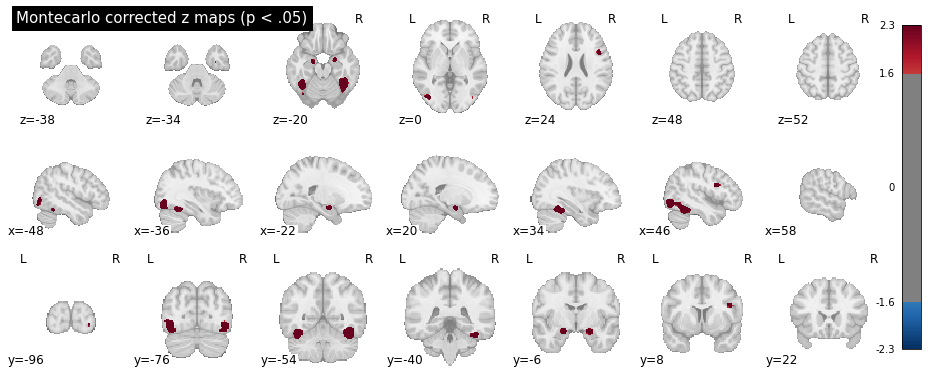
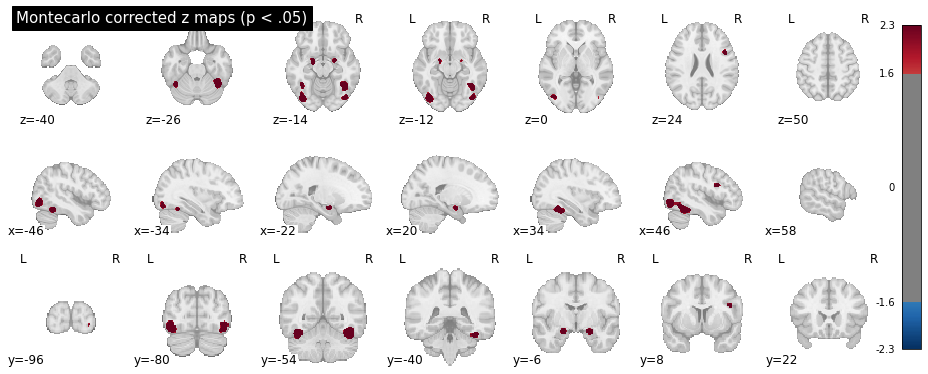
improved nimare code

diff --git a/docs/research/fmri/fmri-nimare.md b/docs/research/fmri/fmri-nimare.md
@@ -23,6 +23,7 @@ Begin by **importing all necessary libraries** required throughout the script. T
 # --- Step 1: Import All Necessary Packages ---
 
 import os
+import shutil
 import numpy as np
 from scipy.stats import norm
 from nimare.dataset import Dataset
@@ -35,7 +36,6 @@ from nilearn.plotting import plot_stat_map
 from nilearn import datasets  # Neuroimaging datasets
 from nilearn.reporting import get_clusters_table
 import nibabel as nib
-
 ```
 
 ---
@@ -179,7 +179,6 @@ def search_abstracts(dataset, keywords):
 
     return keyword_ids
 
-
 # Define keywords to search for in the abstracts
 keywords = ["face recognition"]
 
@@ -197,7 +196,7 @@ pprint(dset_filtered_by_abstract.metadata)  # Verify metadata of the filtered da
 
 ---
 
-## 5. Running Neuroimaging Meta-Analyses
+## 5. Running Meta-Analysis
 
 With the filtered studies, we can now perform meta-analyses using algorithms available in NiMARE.
 
@@ -215,10 +214,14 @@ With the filtered studies, we can now perform meta-analyses using algorithms ava
 The following code exmple shows how to run an ALE meta-analysis with Monte Carlo correction
 
 ```python
-# --- Step 5: Running Neuroimaging Meta-Analyses ---
+# --- Step 5: Running Meta-Analysis ---
 
 # Create dir to store cache (useful for low memory)
 cache_dir = os.path.join(out_dir, "cache")
+
+if os.path.exists(cache_dir):
+    shutil.rmtree(cache_dir) # Delete the old cache folder if it exists
+
 os.makedirs(cache_dir, exist_ok=True)
 
 # Set up the ALE meta-analysis algorithm for activation likelihood estimation
@@ -294,12 +297,23 @@ Which should produce the following plots for the uncorrected z scores and Montec
 
 ![Z scores map corrected](../../assets/nimare-corr.png)
 
+!!! warning
+    The Monte Carlo algorithm may produce slightly different results, nd will be more precise with more iterations (10.000 iterations are reccommended for publication-level analyses).
+
 And for the region names:
 
 ```python
-# # --- Step 7: Extracting Peak Activation Region Names ---
+# --- Step 7: Extracting Peak Activation Region Names ---
 # Load the Harvard-Oxford atlas
-atlas = datasets.fetch_atlas_harvard_oxford("cort-maxprob-thr25-2mm")
+
+# All the Harvard-Oxford atlases can be visualized here:
+# https://neurovault.org/collections/262/
+# The nomenclature for these atlases follow this structure:
+# HarvardOxford <area> maxprob thr<threshold> <resolution>mm, where:
+# <area> can be "cort" for cortex, "sub" for sub-cortical
+# <threshold> is the probability threshold: 0 (bigger ROIs), 25, 50 (smaller ROIs)
+# <resolution> the resolution of the atlas. Can be 1 or 2 mm (same as your images).
+atlas = datasets.fetch_atlas_harvard_oxford("cort-maxprob-thr0-2mm")
 
 # Function to map MNI coordinates to the corresponding ROI name
 def get_region_name(x, y, z, atlas):
@@ -325,12 +339,9 @@ def get_region_name(x, y, z, atlas):
         else "Unknown"
     )
 
-
 # Retrieve the ROI name for each MNI coordinate
 cluster_table["Region"] = cluster_table.apply(
-    lambda row: get_region_name(
-        row["X"], row["Y"], row["Z"], atlas
-    ),
+    lambda row: get_region_name(row["X"], row["Y"], row["Z"], atlas),
     axis=1,
 )
 
@@ -338,7 +349,7 @@ cluster_table["Region"] = cluster_table.apply(
 print(cluster_table)
 
 cluster_table.to_csv(
-    "peak_activation_coordinates.csv", index=False
+    os.path.join(out_dir, "peak_activation_coordinates.csv"), index=False
 )  # Save CSV without row index
 print("Peak information saved to peak_activation_coordinates.csv")
 ```
@@ -346,13 +357,17 @@ print("Peak information saved to peak_activation_coordinates.csv")
 Which should output:
 
 ```bash
-   Cluster ID  ...                                    Region
-0           1  ...                  Occipital Fusiform Gyrus
-1           2  ...                                   Unknown
-2           3  ...                                   Unknown
-3           4  ...        Temporal Occipital Fusiform Cortex
-4           5  ...  Inferior Frontal Gyrus, pars opercularis
+  Cluster ID     X  ...  Cluster Size (mm3)                                    Region
+0          1 -36.0  ...                6840                  Occipital Fusiform Gyrus
+1         1a -38.0  ...                            Temporal Occipital Fusiform Cortex
+2          2 -18.0  ...                1016                                   Unknown
+3          3  20.0  ...                 784                                   Unknown
+4          4  42.0  ...                8264                  Occipital Fusiform Gyrus
+5          5  44.0  ...                 544  Inferior Frontal Gyrus, pars opercularis
 ```
+
+!!! note
+    In the table above, the "Unknown" labels are automatically assigned to un-labeled voxels -- i.e., voxels not belonging to any ROI in the atlas (sub-cortical, outside the brain, etc.). In this specific example, the "Unknown" ROIs are the two anterior small blobs, visible in the second plot at `z = -14`. These voxels are not part of any ROI in the Harvard-Oxford atlas, but seem to fall close to the inferior frontal gyrus.
 
 ## Full code example
 
@@ -386,6 +401,7 @@ Created on Tue Oct 29 13:45:16 2024
 # --- Step 1: Import All Necessary Packages ---
 
 import os
+import shutil
 import numpy as np
 from scipy.stats import norm
 from nimare.dataset import Dataset
@@ -468,7 +484,6 @@ print(f"Number of abstracts: {len(neurosynth_dset.texts)}")
 
 # --- Step 4: Creating a Subset of Data ---
 
-
 # Define a function to search abstracts for specific keywords, which helps create a filtered subset
 def search_abstracts(dataset, keywords):
     """
@@ -501,7 +516,6 @@ def search_abstracts(dataset, keywords):
 
     return keyword_ids
 
-
 # Define keywords to search for in the abstracts
 keywords = ["face recognition"]
 
@@ -516,10 +530,14 @@ dset_filtered_by_abstract = neurosynth_dset.slice(
 )  # Keep only selected studies
 pprint(dset_filtered_by_abstract.metadata)  # Verify metadata of the filtered dataset
 
-# --- Step 5: Running Neuroimaging Meta-Analyses ---
+# --- Step 5: Running Meta-Analysis ---
 
 # Create dir to store cache (useful for low memory)
 cache_dir = os.path.join(out_dir, "cache")
+
+if os.path.exists(cache_dir):
+    shutil.rmtree(cache_dir) # Delete the old cache folder if it exists
+
 os.makedirs(cache_dir, exist_ok=True)
 
 # Set up the ALE meta-analysis algorithm for activation likelihood estimation
@@ -576,9 +594,17 @@ cluster_table = get_clusters_table(
     z_corr_img, stat_threshold=stat_threshold, cluster_threshold=20
 )
 
-# # --- Step 7: Extracting Peak Activation Region Names ---
+# --- Step 7: Extracting Peak Activation Region Names ---
 # Load the Harvard-Oxford atlas
-atlas = datasets.fetch_atlas_harvard_oxford("cort-maxprob-thr25-2mm")
+
+# All the Harvard-Oxford atlases can be visualized here:
+# https://neurovault.org/collections/262/
+# The nomenclature for these atlases follow this structure:
+# HarvardOxford <area> maxprob thr<threshold> <resolution>mm, where:
+# <area> can be "cort" for cortex, "sub" for sub-cortical
+# <threshold> is the probability threshold: 0 (bigger ROIs), 25, 50 (smaller ROIs)
+# <resolution> the resolution of the atlas. Can be 1 or 2 mm (same as your images).
+atlas = datasets.fetch_atlas_harvard_oxford("cort-maxprob-thr0-2mm")
 
 # Function to map MNI coordinates to the corresponding ROI name
 def get_region_name(x, y, z, atlas):
@@ -604,12 +630,9 @@ def get_region_name(x, y, z, atlas):
         else "Unknown"
     )
 
-
 # Retrieve the ROI name for each MNI coordinate
 cluster_table["Region"] = cluster_table.apply(
-    lambda row: get_region_name(
-        row["X"], row["Y"], row["Z"], atlas
-    ),
+    lambda row: get_region_name(row["X"], row["Y"], row["Z"], atlas),
     axis=1,
 )
 
@@ -617,8 +640,7 @@ cluster_table["Region"] = cluster_table.apply(
 print(cluster_table)
 
 cluster_table.to_csv(
-    "peak_activation_coordinates.csv", index=False
+    os.path.join(out_dir, "peak_activation_coordinates.csv"), index=False
 )  # Save CSV without row index
 print("Peak information saved to peak_activation_coordinates.csv")
-
 ```
